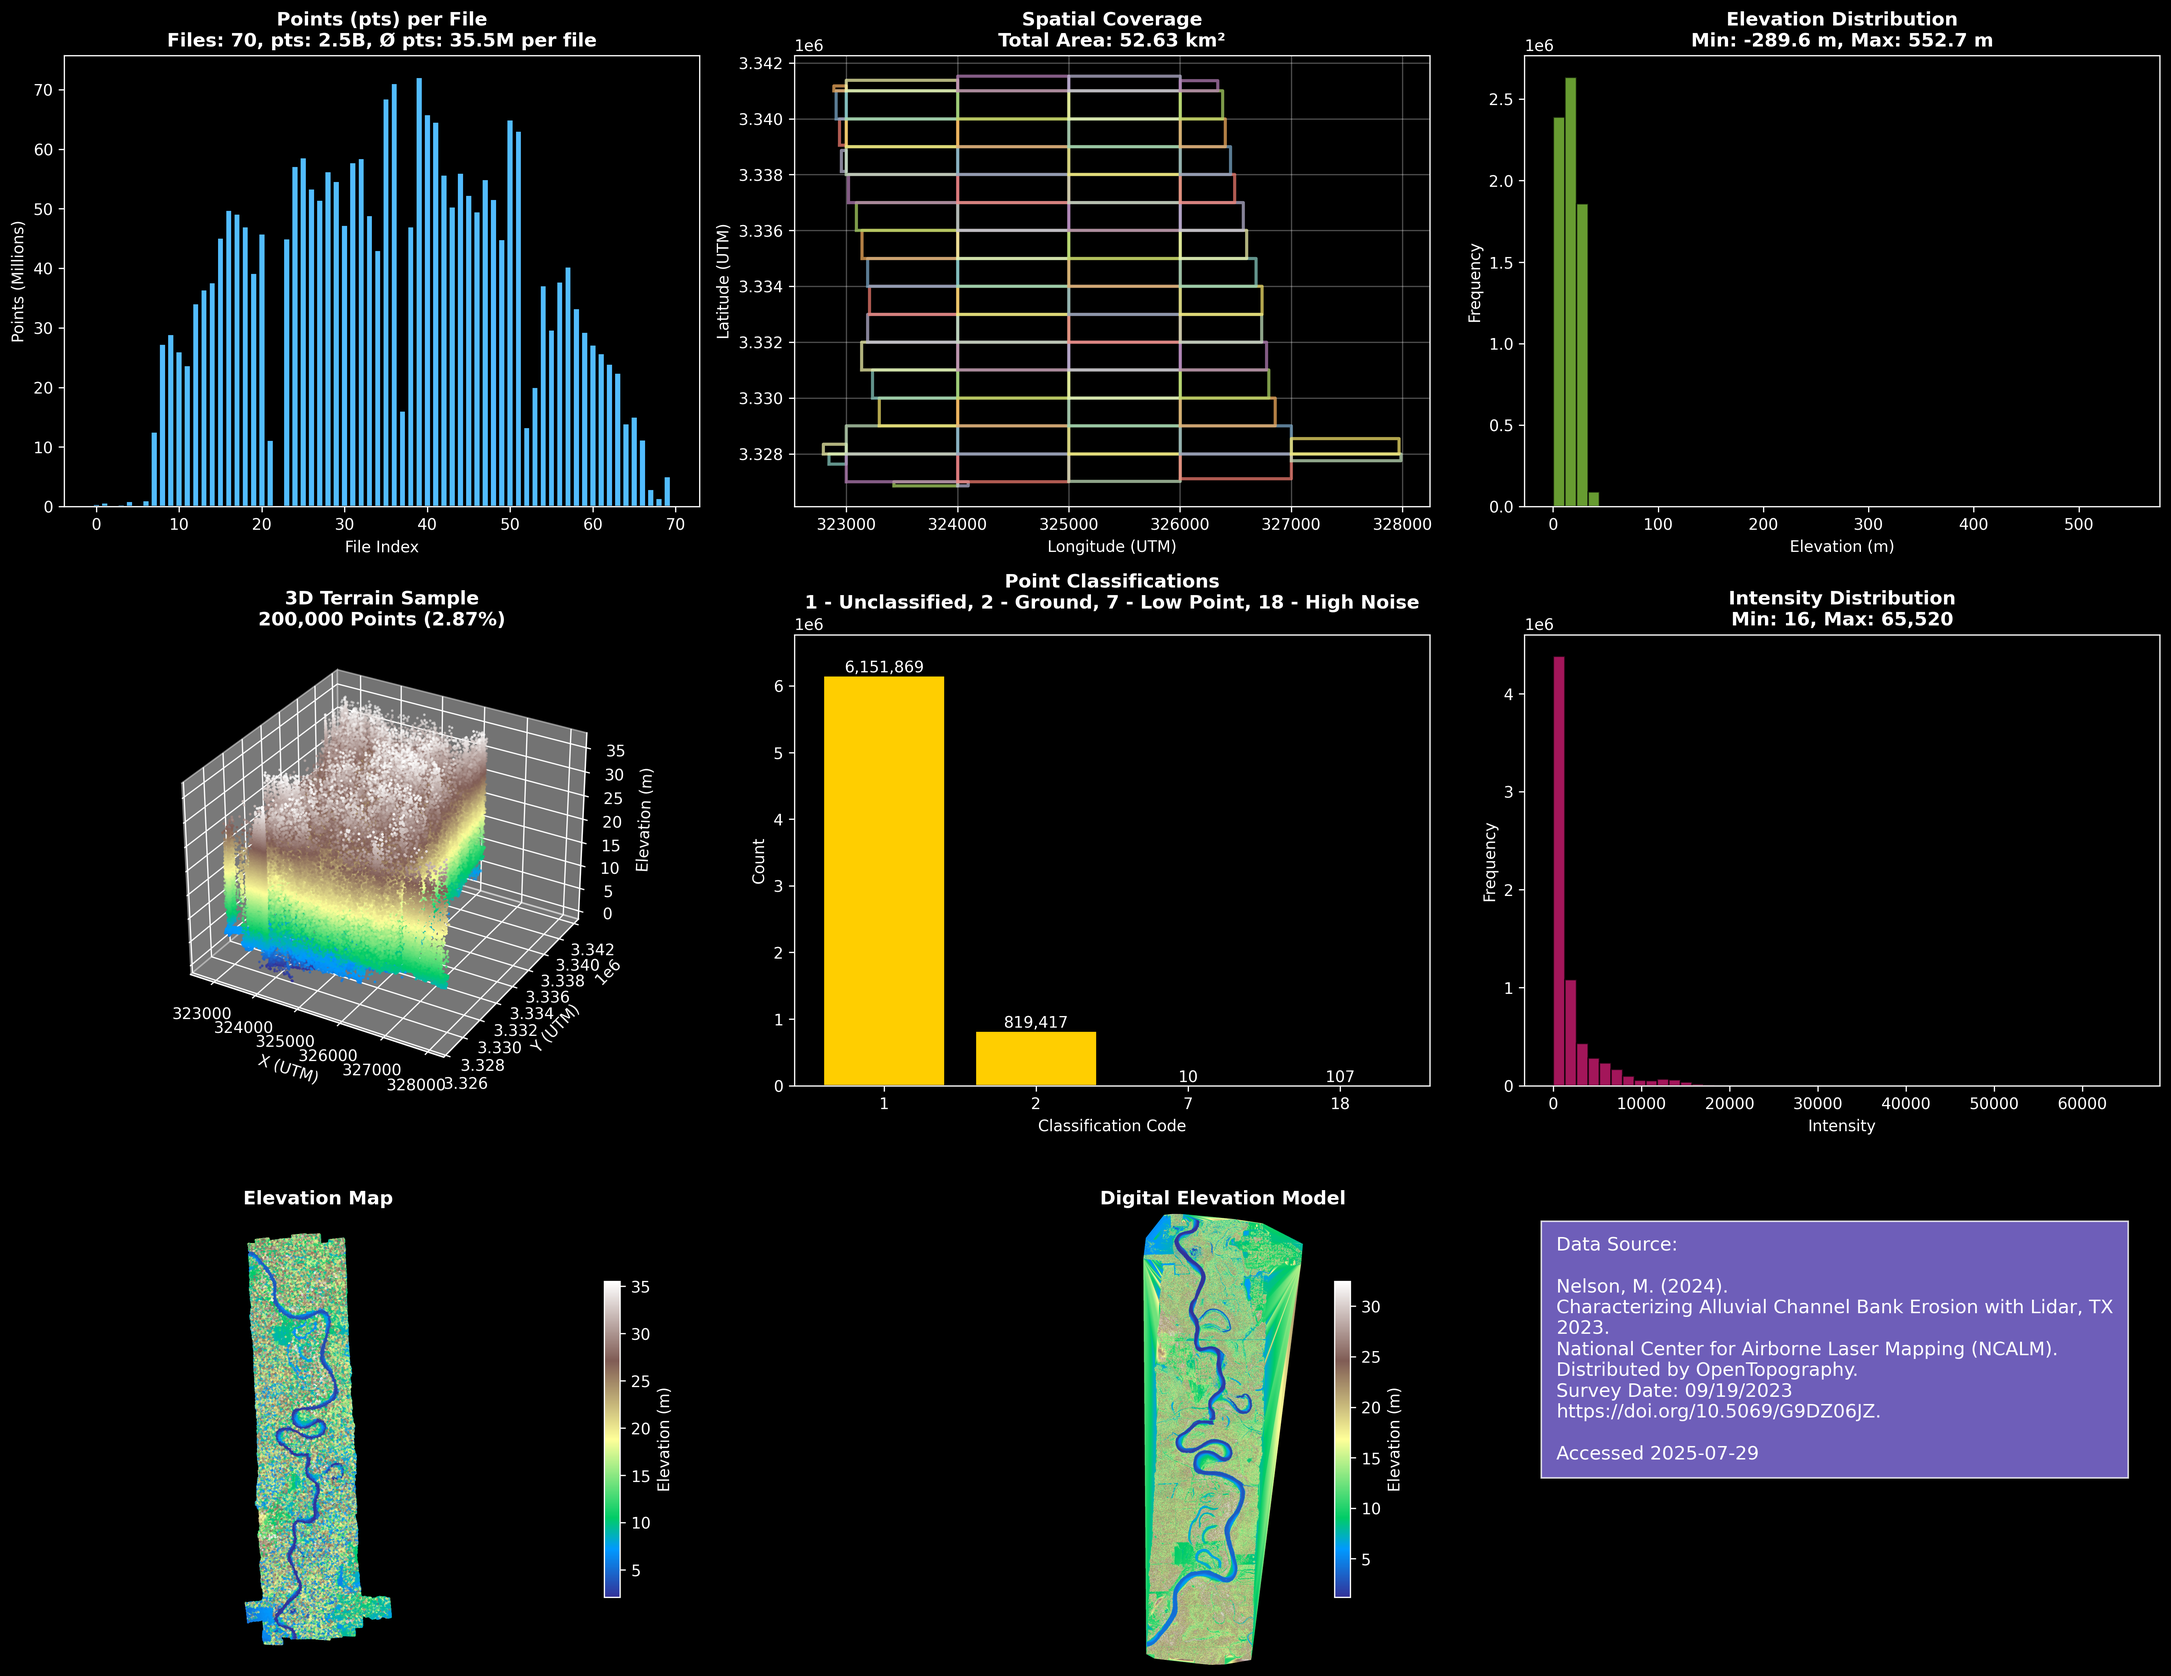
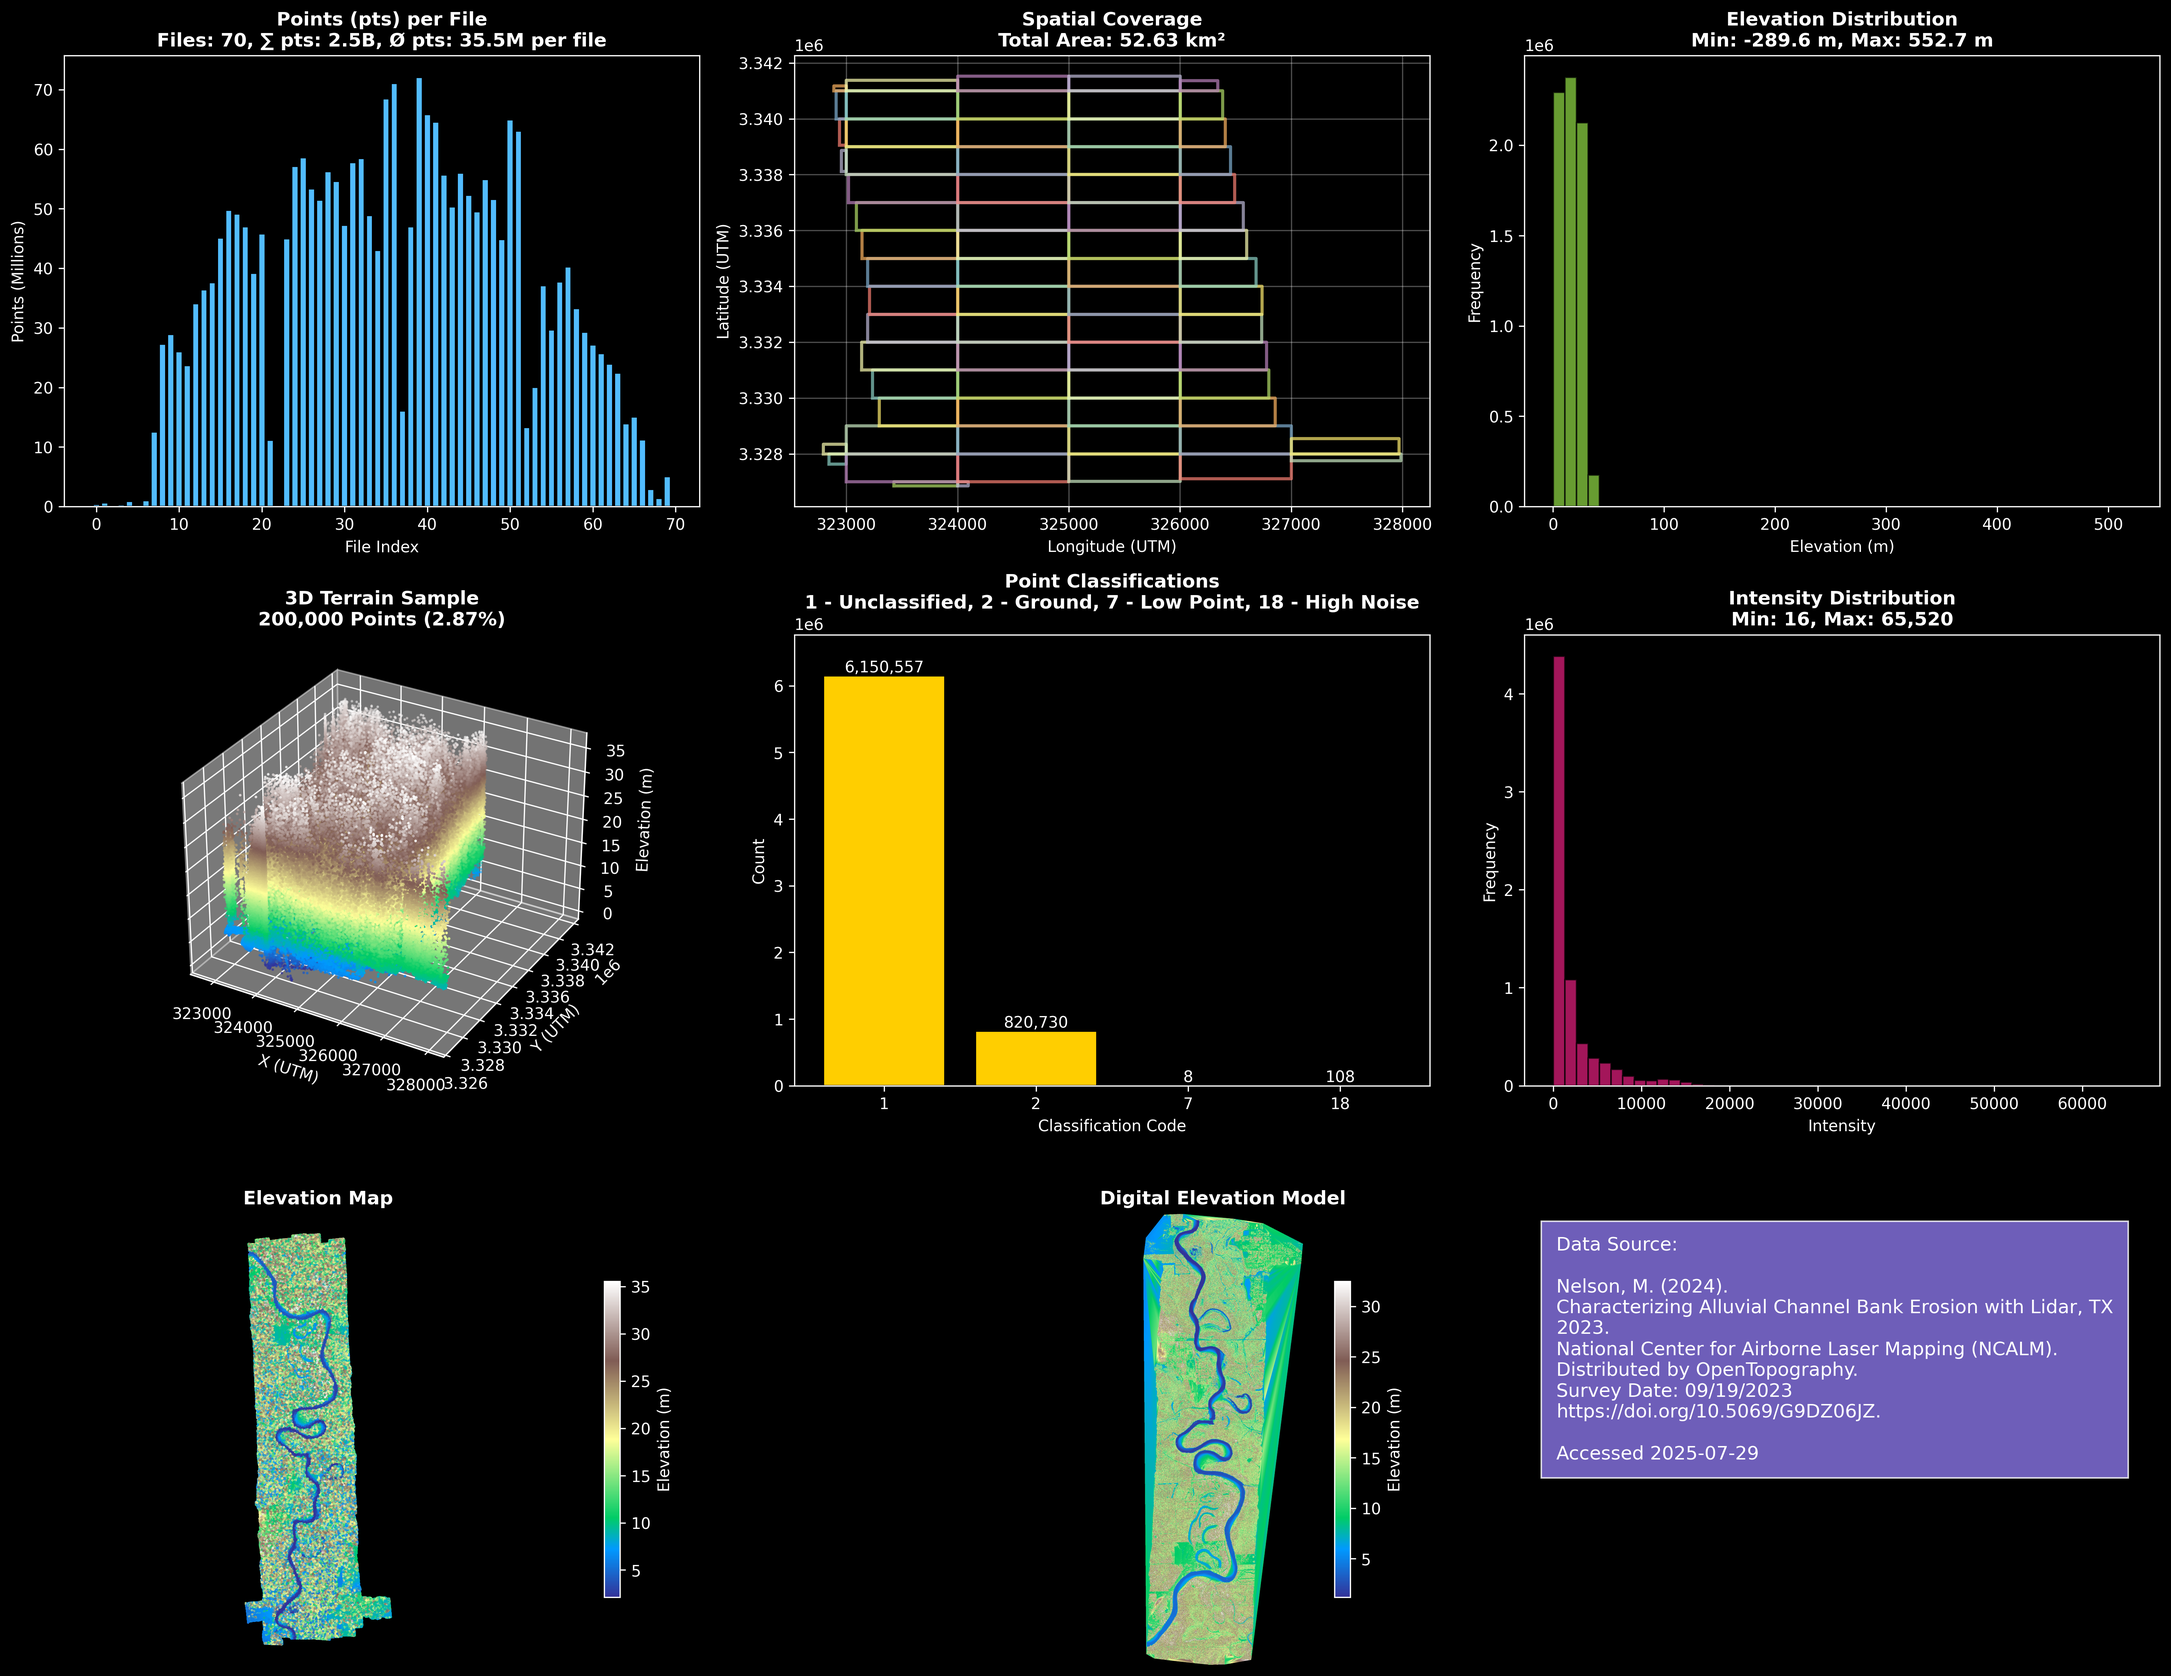
chore: update .gitignore, add README, and regenerate lidar output

diff --git a/lidar_processor.py b/lidar_processor.py
@@ -1,6 +1,6 @@
 #!/usr/bin/env python3
 """
-LiDAR Data Processor for AI Mapping Agent
+LiDAR Data Processor for Mapping Automation Agent
 Processes and visualizes USGS LiDAR .laz files for drone mapping applications
 """
 
@@ -135,7 +135,7 @@ class LiDARProcessor:
         avg_points_m = np.mean([data['num_points'] for data in self.processed_data.values()]) / 1e6
 
         ax1.set_title(
-            f"Points (pts) per File\nFiles: {total_files:,.0f}, pts: {total_points_m:,.1f}B, Ø pts: {avg_points_m:,.1f}M per file",
+            f"Points (pts) per File\nFiles: {total_files:,.0f}, ∑ pts: {total_points_m:,.1f}B, Ø pts: {avg_points_m:,.1f}M per file",
             fontsize=12, fontweight='bold'
         );
         
@@ -240,7 +240,7 @@ class LiDARProcessor:
             ax5.set_xticks(x_positions)
             ax5.set_xticklabels(unique_classes)
 
-            ax5.set_title(f'Point Classifications\n1 - Unclassified, 2 - Ground, 7 - Low Point, 18 - High Noise', # depends on the dataset
+            ax5.set_title(f'Point Classifications\n1 - Unclassified, 2 - Ground, 7 - Low Point, 18 - High Noise',
                           fontsize=12, fontweight='bold')
             ax5.set_xlabel('Classification Code')
             ax5.set_ylabel('Count')

diff --git a/README.md b/README.md
@@ -1,0 +1,112 @@
+# Mapping Automation Agent
+
+A Python-based LiDAR data processing tool for automated terrain mapping and analysis. This project processes United States Geological Survey (USGS) LiDAR data to generate digital elevation models (DEMs), terrain visualizations, and AI training datasets for drone mapping applications.
+
+## Features
+
+- Process LiDAR .laz files from USGS/OpenTopography
+- Generate digital elevation models (DEM) as GeoTIFF files
+- Create comprehensive terrain analysis visualizations
+- Export processed data for AI/ML training
+- Support for large-scale point cloud processing
+- Automated spatial coverage analysis
+
+## Project Structure
+
+```
+├── download_open_topography.py  # Download LiDAR data from OpenTopography
+├── lidar_processor.py          # Main processing and analysis script
+├── view_dem_3d.py             # 3D DEM visualization tool
+├── requirements.txt           # Python dependencies
+├── LICENSE                    # MIT License
+├── README.md                  # This file
+├── TX23_Nelson/              # Raw LiDAR data directory
+├── output_files/             # Generated outputs
+│   ├── TX23_Nelson_lidar_analysis.png
+│   ├── TX23_Nelson_processed_data.npy
+│   └── TX23_Nelson_terrain_map.tif
+```
+
+## Installation
+
+1. Clone the repository:
+```bash
+git clone https://github.com/yauheniya-ai/mapping-agent.git
+cd mapping-agent
+```
+
+2. Install dependencies:
+```bash
+pip install -r requirements.txt
+```
+
+## Usage
+
+### Processing Local LiDAR Data
+
+Place your `.laz` files in the data directory (e.g., `TX23_Nelson/`) and run:
+
+```bash
+python lidar_processor.py
+```
+
+This will:
+- Load and analyze all `.laz` files in the data directory
+- Generate a comprehensive analysis visualization
+- Create a DEM as GeoTIFF
+- Export processed data for AI training
+
+### Downloading Data from OpenTopography
+
+Use the download script to fetch LiDAR data:
+
+```bash
+python download_open_topography.py
+```
+
+### 3D DEM Visualization
+
+View generated DEMs in 3D:
+
+```bash
+python view_dem_3d.py
+```
+
+## Output Files
+
+- **Analysis Visualization**: Comprehensive multi-panel analysis chart
+- **DEM GeoTIFF**: Georeferenced digital elevation model
+- **Training Data**: Processed point cloud data in NumPy format
+- **Metadata**: Spatial statistics and terrain characteristics
+
+## Results Preview
+
+<div align="center">
+  <img src="output_files/TX23_Nelson_lidar_analysis.png" alt="LiDAR Analysis Results" width="100%">
+  <p><em>Comprehensive LiDAR terrain analysis</em></p>
+</div>
+
+## Dependencies
+
+- `laspy` - LiDAR data reading
+- `rasterio` - Geospatial raster processing
+- `matplotlib` - Visualization and plotting
+- `numpy` - Numerical computing
+- `pandas` - Data analysis
+- `scipy` - Scientific computing
+- `pyproj` - Coordinate system transformations
+- `tqdm` - Progress bars
+
+## Data Sources
+
+This project is designed to work with USGS LiDAR data from OpenTopography. Example dataset used:
+
+> Nelson, M. (2024). Characterizing Alluvial Channel Bank Erosion with Lidar, TX 2023. National Center for Airborne Laser Mapping (NCALM). Distributed by OpenTopography. https://doi.org/10.5069/G9DZ06JZ
+
+## License
+
+MIT License - see LICENSE file for details.
+
+## Contributing
+
+Contributions are welcome! Please feel free to submit pull requests or open issues for bugs and feature requests.
